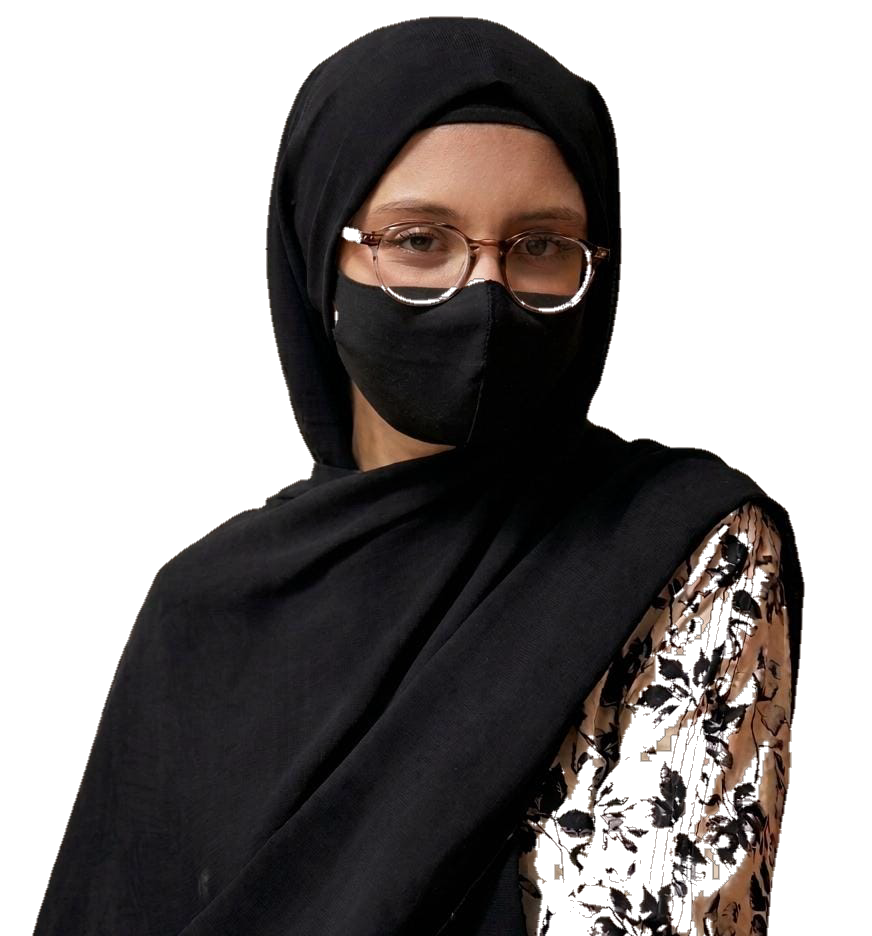
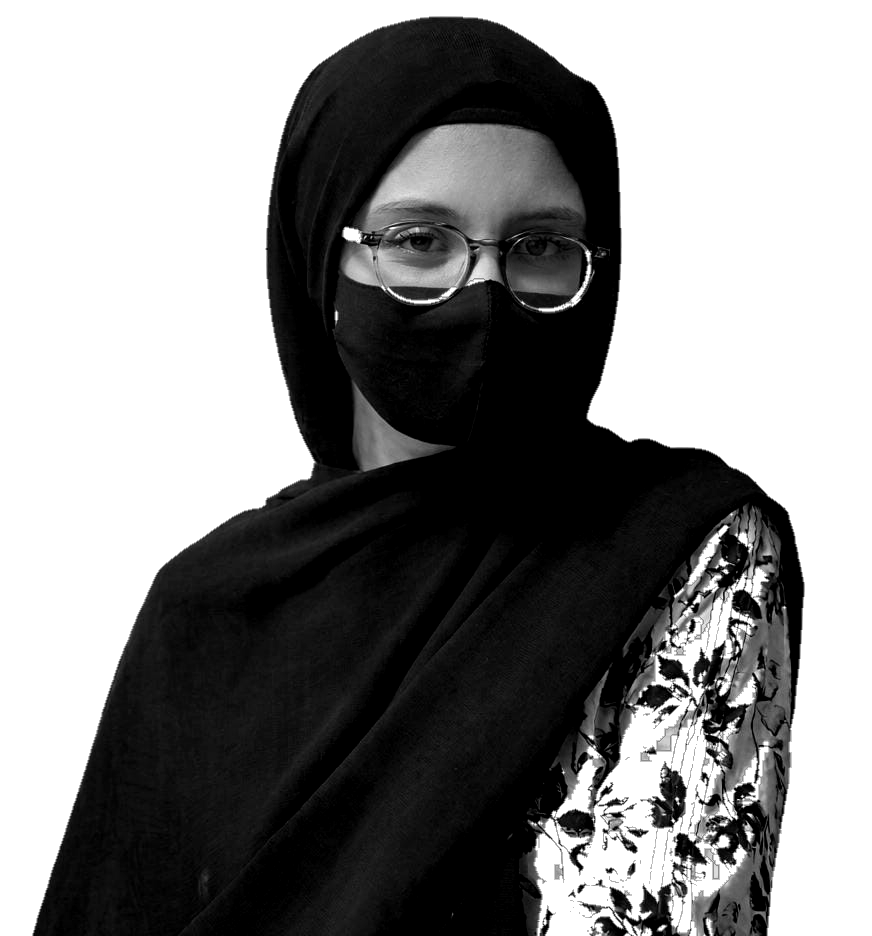
Render the hero portrait in black and white

diff --git a/index.html b/index.html
@@ -184,7 +184,7 @@
 
           <div class="hero__portrait reveal">
             <div class="hero__portrait-frame">
-              <img src="assets/images/profile2.png?v=1" alt="Portrait of Armeen Ali Soomro" width="872" height="936">
+              <img src="assets/images/profile2.png?v=2" alt="Portrait of Armeen Ali Soomro" width="872" height="936">
             </div>
           </div>
         </div>
